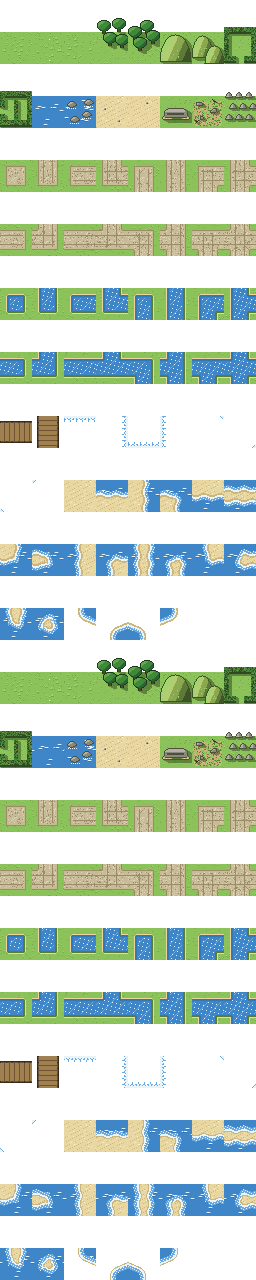
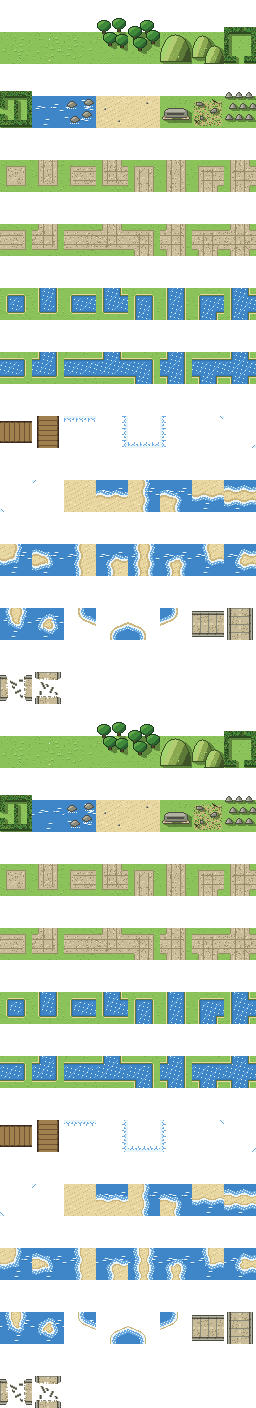
Presentation for Major Bridges: menu, tile info, playback, art
Blow Bridge and Rebuild in the action menu, a bridge line in tile info,
an explosion and labels on the map, a steel girder Major Bridge and a
wrecked Blown Bridge in the summer and winter sheets, and battle
backdrops for both.

diff --git a/src/game/artPack.ts b/src/game/artPack.ts
@@ -198,7 +198,11 @@ export interface TerrainSheet {
   /** First of 16 joined pieces, in neighbor-mask order (N=1, E=2, S=4, W=8). */
   readonly connected: Readonly<Partial<Record<"road" | "river", number>>>;
   /** Bridge decks drawn over a river piece. */
-  readonly bridges: { readonly horizontal: number; readonly vertical: number } | null;
+  readonly bridges: BridgeTiles | null;
+  /** Major Bridge decks drawn over a river piece (02-terrain §4a). Without them, the Bridge deck is used. */
+  readonly majorBridges?: BridgeTiles;
+  /** Blown Bridge wrecks drawn over a river piece (02-terrain §4a). Without them, a Blown Bridge is drawn as river. */
+  readonly blownBridges?: BridgeTiles;
   /** First of 8 shore pieces drawn over sea next to land: edges N, E, S, W, then corners NE, SE, SW, NW. */
   readonly shore?: number;
   /**
@@ -209,6 +213,12 @@ export interface TerrainSheet {
   readonly beach?: number;
   /** The same layout drawn in snow, for winter maps (08-art-pipeline §21). Relative to the pack's folder. */
   readonly winterPath?: string;
+}
+
+/** A bridge's two pieces: running left to right, and top to bottom. */
+export interface BridgeTiles {
+  readonly horizontal: number;
+  readonly vertical: number;
 }
 
 /** A property sheet row: a property (or "bunker"), optionally with the side it opens to. */
@@ -370,7 +380,7 @@ function parseUnitSheet(raw: unknown, index: number): UnitSheet {
 
 function parseTerrainSheet(raw: unknown): TerrainSheet {
   if (!isObject(raw)) return fail(`"terrain" must be an object`);
-  const { path, tiles, frames = 1, tileWidth = 16, connected = {}, bridges, shore, beach, winterPath } = raw;
+  const { path, tiles, frames = 1, tileWidth = 16, connected = {}, bridges, majorBridges, blownBridges, shore, beach, winterPath } = raw;
   const { tileHeight = tileWidth } = raw;
   if (!isRelativePath(path)) return fail(`terrain: "path" must be a file in the pack`);
   if (!isObject(tiles)) return fail(`terrain: "tiles" must be an object`);
@@ -389,9 +399,16 @@ function parseTerrainSheet(raw: unknown): TerrainSheet {
     if (terrain !== "road" && terrain !== "river") return fail(`terrain: only road and river can be connected, not "${terrain}"`);
     if (!isTileNumber(first)) return fail(`terrain: connected "${terrain}" must be a whole number`);
   }
-  if (bridges !== undefined && (!isObject(bridges) || !isTileNumber(bridges.horizontal) || !isTileNumber(bridges.vertical))) {
-    return fail(`terrain: "bridges" needs whole numbers for horizontal and vertical`);
-  }
+  const bridgeTiles = (name: string, value: unknown): BridgeTiles | undefined => {
+    if (value === undefined) return undefined;
+    if (!isObject(value) || !isTileNumber(value.horizontal) || !isTileNumber(value.vertical)) {
+      return fail(`terrain: "${name}" needs whole numbers for horizontal and vertical`);
+    }
+    return { horizontal: value.horizontal, vertical: value.vertical };
+  };
+  const plain = bridgeTiles("bridges", bridges);
+  const major = bridgeTiles("majorBridges", majorBridges);
+  const blown = bridgeTiles("blownBridges", blownBridges);
   if (shore !== undefined && !isTileNumber(shore)) return fail(`terrain: "shore" must be a whole number`);
   if (beach !== undefined && !isTileNumber(beach)) return fail(`terrain: "beach" must be a whole number`);
   if (winterPath !== undefined && !isRelativePath(winterPath)) return fail(`terrain: "winterPath" must be a file in the pack`);
@@ -402,7 +419,9 @@ function parseTerrainSheet(raw: unknown): TerrainSheet {
     tileHeight: tileHeight as number,
     tiles: parsedTiles,
     connected,
-    bridges: bridges === undefined ? null : { horizontal: bridges.horizontal as number, vertical: bridges.vertical as number },
+    bridges: plain ?? null,
+    ...(major === undefined ? {} : { majorBridges: major }),
+    ...(blown === undefined ? {} : { blownBridges: blown }),
     ...(shore === undefined ? {} : { shore }),
     ...(beach === undefined ? {} : { beach }),
     ...(winterPath === undefined ? {} : { winterPath }),

diff --git a/src/game/terrainTiles.ts b/src/game/terrainTiles.ts
@@ -21,10 +21,13 @@ const SIDES = [
 ] as const;
 const OPPOSITE: Readonly<Record<number, number>> = { [N]: S, [E]: W, [S]: N, [W]: E };
 
-const ROAD_JOINS: readonly TerrainId[] = ["road", "bridge"];
-const RIVER_JOINS: readonly TerrainId[] = ["river", "bridge", "sea", "reef"];
+/** Bridges of every kind, drawn as a deck or wreck over a river piece (02-terrain §4a). */
+const BRIDGES: readonly TerrainId[] = ["bridge", "majorBridge", "blownBridge"];
+/** A road runs up to a Blown Bridge's stub too. */
+const ROAD_JOINS: readonly TerrainId[] = ["road", ...BRIDGES];
+const RIVER_JOINS: readonly TerrainId[] = ["river", ...BRIDGES, "sea", "reef"];
 /** Shore foam never forms against these: they're water too. */
-const WATER: readonly TerrainId[] = ["sea", "reef", "river", "bridge"];
+const WATER: readonly TerrainId[] = ["sea", "reef", "river", ...BRIDGES];
 
 const at = (map: GameMap, x: number, y: number): TerrainId | undefined =>
   x >= 0 && y >= 0 && x < map.width && y < map.height ? map.terrain[y * map.width + x] : undefined;
@@ -51,7 +54,7 @@ export function joinMask(map: GameMap, x: number, y: number, joins: readonly Ter
 
 /** A bridge spans the water beside it: water above or below means it runs left to right. */
 export function bridgeRunsAcross(map: GameMap, x: number, y: number): boolean {
-  const water = (t: TerrainId | undefined) => t !== undefined && t !== "bridge" && WATER.includes(t);
+  const water = (t: TerrainId | undefined) => t !== undefined && !BRIDGES.includes(t) && WATER.includes(t);
   if (water(at(map, x, y - 1)) || water(at(map, x, y + 1))) return true;
   return !(water(at(map, x - 1, y)) || water(at(map, x + 1, y)));
 }
@@ -150,9 +153,11 @@ export function terrainLayers(map: GameMap, x: number, y: number, sheet: Terrain
   const tile = (n: number): TerrainLayer => ({ kind: "sheet", tile: n });
   const { connected, bridges, shore, beach } = sheet;
 
-  if (id === "bridge" && connected.river !== undefined && bridges) {
-    const base = connected.river + joinMask(map, x, y, RIVER_JOINS);
-    return [tile(base), tile(bridgeRunsAcross(map, x, y) ? bridges.horizontal : bridges.vertical)];
+  // A Major Bridge falls back to the plain deck, and a Blown Bridge to bare river, in packs without them.
+  const deck = id === "bridge" ? bridges : id === "majorBridge" ? (sheet.majorBridges ?? bridges) : id === "blownBridge" ? sheet.blownBridges : undefined;
+  if (BRIDGES.includes(id) && connected.river !== undefined) {
+    const base = tile(connected.river + joinMask(map, x, y, RIVER_JOINS));
+    return deck ? [base, tile(bridgeRunsAcross(map, x, y) ? deck.horizontal : deck.vertical)] : [base];
   }
   if (id === "road" && connected.road !== undefined) return [tile(connected.road + joinMask(map, x, y, ROAD_JOINS))];
   if (id === "river" && connected.river !== undefined) return [tile(connected.river + joinMask(map, x, y, RIVER_JOINS))];

diff --git a/src/game/controller.ts b/src/game/controller.ts
@@ -5,6 +5,7 @@
 import { attackTargets, forecast, fortForecast, fortTargets, threatTiles, type CombatForecast } from "../engine/combat";
 import type { Command, UnitAction } from "../engine/commands";
 import { UNITS, type UnitTypeId } from "../engine/data/units";
+import { blowProblem, rebuildProblem } from "../engine/bridges";
 import { buildOptions, captureProblem, type BuildOption } from "../engine/economy";
 import { inBounds, type Point } from "../engine/map";
 import { canEndOn, cheapestPath, reachableTiles, tilePoint, type Reach } from "../engine/movement";
@@ -121,6 +122,8 @@ const UNLOAD: MenuItem = { id: "unload", label: "UNLOAD" };
 const LAUNCH: MenuItem = { id: "launch", label: "LAUNCH" };
 const SUPPLY: MenuItem = { id: "supply", label: "SUPPLY" };
 const DIVE: MenuItem = { id: "dive", label: "DIVE" };
+const BLOW_BRIDGE: MenuItem = { id: "blowBridge", label: "BLOW BRIDGE" };
+const REBUILD_BRIDGE: MenuItem = { id: "rebuildBridge", label: "REBUILD" };
 const SURFACE: MenuItem = { id: "surface", label: "SURFACE" };
 const WAIT: MenuItem = { id: "wait", label: "WAIT" };
 const CANCEL: MenuItem = { id: "cancel", label: "CANCEL" };
@@ -364,6 +367,8 @@ export class InputController {
     else if (id === "join") void this.commit(mode, { type: "join" });
     else if (id === "supply") void this.commit(mode, { type: "supply" });
     else if (id === "dive") void this.commit(mode, { type: "dive" });
+    else if (id === "blowBridge") void this.commit(mode, { type: "blowBridge" });
+    else if (id === "rebuildBridge") void this.commit(mode, { type: "rebuildBridge" });
     else if (id === "surface") void this.commit(mode, { type: "surface" });
     else if (id === "unload") this.startUnloading(mode, this.unloadable(mode)[0]?.id);
     else if (id.startsWith("unload:")) this.startUnloading(mode, Number(id.slice("unload:".length)));
@@ -502,6 +507,8 @@ export class InputController {
     return [
       ...(canFire ? [FIRE] : []),
       ...(captureProblem(state, moved) === null ? [CAPTURE] : []),
+      ...(blowProblem(state, moved) === null ? [BLOW_BRIDGE] : []),
+      ...(rebuildProblem(state, moved) === null ? [REBUILD_BRIDGE] : []),
       ...this.unloadItems(this.unloadable({ unitId: unit.id, path: [at] })),
       ...this.launchItems(at.x === unit.pos.x && at.y === unit.pos.y ? this.launchable({ unitId: unit.id, path: [] }) : []),
       ...(supplyTargets(state, moved).length > 0 ? [SUPPLY] : []),

diff --git a/src/game/tileInfo.ts b/src/game/tileInfo.ts
@@ -1,8 +1,9 @@
 // What the info box says about a tile. Stars come from the same stat the damage formula uses.
 
-import { TERRAIN } from "../engine/data/terrain";
+import { bridgeWorkAt } from "../engine/bridges";
+import { TERRAIN, type TerrainDef } from "../engine/data/terrain";
 import { terrainAt, type Point } from "../engine/map";
-import { UNITS, unitDef } from "../engine/data/units";
+import { UNIT_TYPE_IDS, UNITS, unitDef } from "../engine/data/units";
 import { servicesUnit } from "../engine/economy";
 import { CAPTURE_POINTS, displayHp, propertyAt, unitAt, type GameState, type PlayerId, type Unit } from "../engine/state";
 import * as stats from "../engine/stats";
@@ -131,6 +132,28 @@ export interface TileInfo {
   readonly capture: { readonly left: number; readonly total: number } | null;
   /** A property some scenario objective names (04-economy §8). */
   readonly objective: boolean;
+  /**
+   * A Major Bridge says who can blow it; a Blown Bridge who can rebuild it and how far that has got
+   * (02-terrain §4a). `by` is the unit name(s). null for other terrain.
+   */
+  readonly bridge:
+    | { readonly action: "blow"; readonly by: string }
+    | { readonly action: "rebuild"; readonly by: string; readonly left: number; readonly total: number }
+    | null;
+}
+
+/** The names of the unit types that can blow and rebuild bridges, e.g. "Assault Infantry". */
+function engineers(): string {
+  const types = UNIT_TYPE_IDS.filter((t) => unitDef(t).specialActions.includes("demolish"));
+  return types.map(unitName).join(" or ");
+}
+
+function bridgeInfo(state: GameState, tile: Point): TileInfo["bridge"] {
+  const def = TERRAIN[terrainAt(state.map, tile)] as TerrainDef;
+  if (def.demolition) return { action: "blow", by: engineers() };
+  if (!def.rebuild) return null;
+  const total = def.rebuild.points;
+  return { action: "rebuild", by: engineers(), left: bridgeWorkAt(state, tile)?.points ?? total, total };
 }
 
 export function tileInfo(state: GameState, tile: Point): TileInfo {
@@ -154,5 +177,6 @@ export function tileInfo(state: GameState, tile: Point): TileInfo {
       : null,
     capture: property ? { left: property.capturePoints, total: CAPTURE_POINTS } : null,
     objective: objectiveTiles(state).some((p) => p.x === tile.x && p.y === tile.y),
+    bridge: bridgeInfo(state, tile),
   };
 }

diff --git a/tests/terrainTiles.test.ts b/tests/terrainTiles.test.ts
@@ -113,6 +113,39 @@ describe("terrain tiles: bridges (08-art-pipeline §14)", () => {
   });
 });
 
+describe("terrain tiles: Major and Blown Bridges (02-terrain §4a, 08-art-pipeline §14)", () => {
+  const withMajor: TerrainSheet = { ...sheet, majorBridges: { horizontal: 78, vertical: 79 }, blownBridges: { horizontal: 80, vertical: 81 } };
+  const across = (bridge: string) => parseAsciiMap([".~.", `=${bridge}=`, ".~."]);
+
+  it("a Major Bridge draws its steel deck over the river, and joins the road and river like a bridge", () => {
+    expect(terrainLayers(across("%"), 1, 1, withMajor)).toEqual([
+      { kind: "sheet", tile: 32 + (N | S) },
+      { kind: "sheet", tile: 78 },
+    ]);
+    expect(joinMask(parseAsciiMap(["..~", ".=%", "..~"]), 1, 1, ["road", "majorBridge"])).toBe(E);
+  });
+
+  it("a Blown Bridge draws its wreck over the river piece", () => {
+    expect(terrainLayers(across("!"), 1, 1, withMajor)).toEqual([
+      { kind: "sheet", tile: 32 + (N | S) },
+      { kind: "sheet", tile: 80 },
+    ]);
+  });
+
+  it("a pack without them draws a Major Bridge as a plain bridge and a Blown Bridge as river", () => {
+    expect(terrainLayers(across("%"), 1, 1, sheet)).toEqual([
+      { kind: "sheet", tile: 32 + (N | S) },
+      { kind: "sheet", tile: 48 },
+    ]);
+    expect(terrainLayers(across("!"), 1, 1, sheet)).toEqual([{ kind: "sheet", tile: 32 + (N | S) }]);
+  });
+
+  it("a river flows under a Major Bridge and past a Blown Bridge", () => {
+    const map = parseAsciiMap(["~", "%", "~", "!", "~"]);
+    expect(terrainLayers(map, 0, 2, withMajor)[0]).toEqual({ kind: "sheet", tile: 32 + (N | S) });
+  });
+});
+
 describe("terrain tiles: shoreline (08-art-pipeline §14)", () => {
   it("sea next to land gets foam on each side that touches land", () => {
     const map = parseAsciiMap([

diff --git a/src/game/battle/backdrops.ts b/src/game/battle/backdrops.ts
@@ -575,6 +575,8 @@ export function drawBackdrop(p: Painter, x0: number, terrain: TerrainId, view: B
       break;
     case "river":
     case "bridge":
+    case "majorBridge":
+    case "blownBridge":
       treeline(p, x0, horizon - 10, 10, true);
       water(p, x0, horizon - 10, horizon + 2, t);
       break;
@@ -597,12 +599,19 @@ export function drawBackdrop(p: Painter, x0: number, terrain: TerrainId, view: B
       p.line(hx + 5, groundTop + 2, hx - 5, groundTop + 12, C("battleSteelDark"), 2);
     }
   }
-  if (terrain === "road" || terrain === "bridge" || terrain === "city" || terrain === "hq" || terrain === "airfield") {
+  const paved: readonly TerrainId[] = ["road", "bridge", "majorBridge", "city", "hq", "airfield"];
+  if (paved.includes(terrain)) {
     const surface = terrain === "airfield" ? C("battleSteel") : terrain === "bridge" ? C("battleStone") : C("battleRoad");
     p.rect(x0, horizon + 4, SCENE.half, 16, surface);
     p.rect(x0, horizon + 9, SCENE.half, 1, shade(surface, 0.85));
     p.rect(x0, horizon + 15, SCENE.half, 1, shade(surface, 0.85));
     if (terrain === "bridge") p.rect(x0, horizon + 2, SCENE.half, 3, shade(C("battleStone"), 0.75));
+    if (terrain === "majorBridge") {
+      // A steel girder along the far side, with its lattice bracing (02-terrain §4a).
+      p.rect(x0, horizon - 6, SCENE.half, 2, C("battleSteelDark"));
+      p.rect(x0, horizon + 2, SCENE.half, 2, C("battleSteelDark"));
+      for (let gx = x0; gx < x0 + SCENE.half; gx += 16) p.line(gx, horizon + 2, gx + 8, horizon - 5, C("battleSteelDark"), 1);
+    }
   }
   if (terrain === "forest") {
     for (let i = 0; i < 4; i++) p.disc(x0 + 20 + i * 52, SCENE.bottom - 2, 9, C("battleTreeDark"));

diff --git a/src/ui/tileInfoPanel.ts b/src/ui/tileInfoPanel.ts
@@ -12,13 +12,14 @@ export function createTileInfo(root: HTMLElement): { show: (state: GameState, ti
   const defense = el("div", "tile-defense");
   const objectiveLine = el("div", "tile-objective", "★ Objective");
   const captureLine = el("div", "tile-capture");
+  const bridgeLine = el("div", "tile-capture");
   const unitLine = el("div", "tile-unit");
   const supplyLine = el("div", "tile-supply");
   const fuelText = el("span");
   const ammoText = el("span");
   supplyLine.append(fuelText, ammoText);
   const cargoLine = el("div", "tile-cargo");
-  panel.append(name, defense, objectiveLine, captureLine, unitLine, supplyLine, cargoLine);
+  panel.append(name, defense, objectiveLine, captureLine, bridgeLine, unitLine, supplyLine, cargoLine);
   root.append(panel);
 
   return {
@@ -39,6 +40,14 @@ export function createTileInfo(root: HTMLElement): { show: (state: GameState, ti
       ammoText.classList.toggle("tile-low", unit?.ammo?.low === true);
       captureLine.hidden = !info.capture;
       captureLine.textContent = info.capture ? `Capture ${info.capture.left}/${info.capture.total}` : "";
+      // Major Bridges (02-terrain §4a).
+      const bridge = info.bridge;
+      bridgeLine.hidden = !bridge;
+      bridgeLine.textContent = !bridge
+        ? ""
+        : bridge.action === "blow"
+          ? `Can be blown by ${bridge.by}`
+          : `Can be rebuilt by ${bridge.by}: ${bridge.left}/${bridge.total}`;
       // A transport lists who is aboard, each with HP, fuel and ammo (05-supply-transport §4).
       const cargo = info.unit?.cargo;
       cargoLine.hidden = !cargo;

diff --git a/tests/controller.test.ts b/tests/controller.test.ts
@@ -116,6 +116,31 @@ describe("capture and build", () => {
     expect(labels()).toEqual(["capture", "wait", "cancel"]);
   });
 
+  it("offers Blow Bridge to Assault Infantry on a Major Bridge, and blowing it leaves a Blown Bridge (02-terrain §4a)", async () => {
+    const { controller, labels, settle, getState } = setup([".%."], [{ type: "assaultInfantry", owner: 0, pos: P(0, 0) }]);
+    controller.onConfirm(P(0, 0));
+    controller.onConfirm(P(1, 0));
+    await settle();
+    expect(labels()).toEqual(["blowBridge", "wait", "cancel"]);
+    controller.onMenuChoice("blowBridge");
+    await settle();
+    expect(getState().map.terrain[1]).toBe("blownBridge");
+  });
+
+  it("offers Rebuild to Assault Infantry on a Blown Bridge, but nothing to Infantry (02-terrain §4a)", async () => {
+    const engineers = setup([".!."], [{ type: "assaultInfantry", owner: 0, pos: P(0, 0) }]);
+    engineers.controller.onConfirm(P(0, 0));
+    engineers.controller.onConfirm(P(1, 0));
+    await engineers.settle();
+    expect(engineers.labels()).toEqual(["rebuildBridge", "wait", "cancel"]);
+
+    const soldiers = setup([".!."], [{ type: "infantry", owner: 0, pos: P(0, 0) }]);
+    soldiers.controller.onConfirm(P(0, 0));
+    soldiers.controller.onConfirm(P(1, 0));
+    await soldiers.settle();
+    expect(soldiers.labels()).toEqual(["wait", "cancel"]);
+  });
+
   it("doesn't offer Capture to vehicles or on your own property", async () => {
     const tank = setup([".C."], [{ type: "mediumTank", owner: 0, pos: P(0, 0) }]);
     tank.controller.onConfirm(P(0, 0));

diff --git a/src/game/mapPlayback.ts b/src/game/mapPlayback.ts
@@ -135,6 +135,12 @@ export class MapPlayback {
           await this.floatLabel(event.pos, "CAPTURED", packColor("labelGold"));
         }
       }
+      // Major Bridges (02-terrain §4a). The terrain under them is redrawn with the next state.
+      if (event.type === "bridgeBlown") {
+        await Promise.all([this.explode({ pos: event.pos }), this.floatLabel(event.pos, "BRIDGE BLOWN", packColor("labelWarning"))]);
+      }
+      if (event.type === "bridgeRebuildProgress") await this.floatLabel(event.pos, `${event.points} LEFT`, packColor("labelText"));
+      if (event.type === "bridgeRebuilt") await this.floatLabel(event.pos, "BRIDGE REBUILT", packColor("labelGold"));
       if (event.type === "unitOutOfFuel") {
         const lost = { pos: event.pos, unitId: event.unitId };
         await Promise.all([this.explode(lost), this.floatLabel(event.pos, "OUT OF FUEL", packColor("labelWarning"))]);
@@ -177,6 +183,9 @@ export class MapPlayback {
         return [event.attackerPos, event.pos];
       case "captureProgress":
       case "propertyCaptured":
+      case "bridgeBlown":
+      case "bridgeRebuildProgress":
+      case "bridgeRebuilt":
       case "unitOutOfFuel":
       case "unitLaunched":
       case "unitAmbushed":

diff --git a/tests/tileInfo.test.ts b/tests/tileInfo.test.ts
@@ -195,3 +195,21 @@ describe("tile info box (00-master-design §12)", () => {
     expect(tileInfo(withObjective, P(2, 0)).objective).toBe(false);
   });
 });
+
+describe("tile info: Major Bridges (02-terrain §4a)", () => {
+  it("a Major Bridge says Assault Infantry can blow it", () => {
+    expect(tileInfo(makeGame(["%"]), { x: 0, y: 0 }).bridge).toEqual({ action: "blow", by: "Assault Infantry" });
+  });
+
+  it("a Blown Bridge says Assault Infantry can rebuild it, with the progress so far", () => {
+    const state = makeGame(["!."], [{ type: "assaultInfantry", owner: 0, pos: { x: 0, y: 0 }, hp: 60 }]);
+    expect(tileInfo(state, { x: 0, y: 0 }).bridge).toEqual({ action: "rebuild", by: "Assault Infantry", left: 20, total: 20 });
+    const result = apply(state, { type: "move", unitId: 0, path: [], action: { type: "rebuildBridge" } });
+    if (!result.ok) throw new Error(result.message);
+    expect(tileInfo(result.state, { x: 0, y: 0 }).bridge).toEqual({ action: "rebuild", by: "Assault Infantry", left: 14, total: 20 });
+  });
+
+  it("an ordinary Bridge says nothing about blowing it", () => {
+    expect(tileInfo(makeGame(["#"]), { x: 0, y: 0 }).bridge).toBeNull();
+  });
+});

diff --git a/tests/artPack.test.ts b/tests/artPack.test.ts
@@ -100,6 +100,7 @@ describe("art pack files (08-art-pipeline §13)", () => {
     ["an empty variant list", { terrain: { path: "t.png", tiles: { plains: [] } } }, /list of them/],
     ["a connected terrain that can't join", { terrain: { path: "t.png", tiles: {}, connected: { forest: 0 } } }, /only road and river/],
     ["a bridge without both directions", { terrain: { path: "t.png", tiles: {}, bridges: { horizontal: 1 } } }, /horizontal and vertical/],
+    ["a Major Bridge without both directions", { terrain: { path: "t.png", tiles: {}, majorBridges: { vertical: 1 } } }, /"majorBridges" needs/],
     ["zero terrain frames", { terrain: { path: "t.png", tiles: {}, frames: 0 } }, /whole number/],
     ["a tile height that isn't 16 or 32", { terrain: { path: "t.png", tiles: {}, tileHeight: 24 } }, /16 or 32/],
     ["a tile width that isn't 16 or 32", { terrain: { path: "t.png", tiles: {}, tileWidth: 24 } }, /16 or 32/],

diff --git a/tests/sound.test.ts b/tests/sound.test.ts
@@ -249,6 +249,7 @@ describe("map sounds (16-sound §3)", () => {
     expect(mapEventSound({ type: "unitDived", unitId: 1 })).toBe("waterSplash");
     expect(mapEventSound({ type: "unitSurfaced", unitId: 1 })).toBe("waterSplash");
     expect(mapEventSound({ type: "unitWaited", unitId: 1 })).toBeNull();
+    expect(mapEventSound({ type: "bridgeRebuilt", unitId: 1, pos: { x: 0, y: 0 } })).toBe("built");
   });
 });
 
